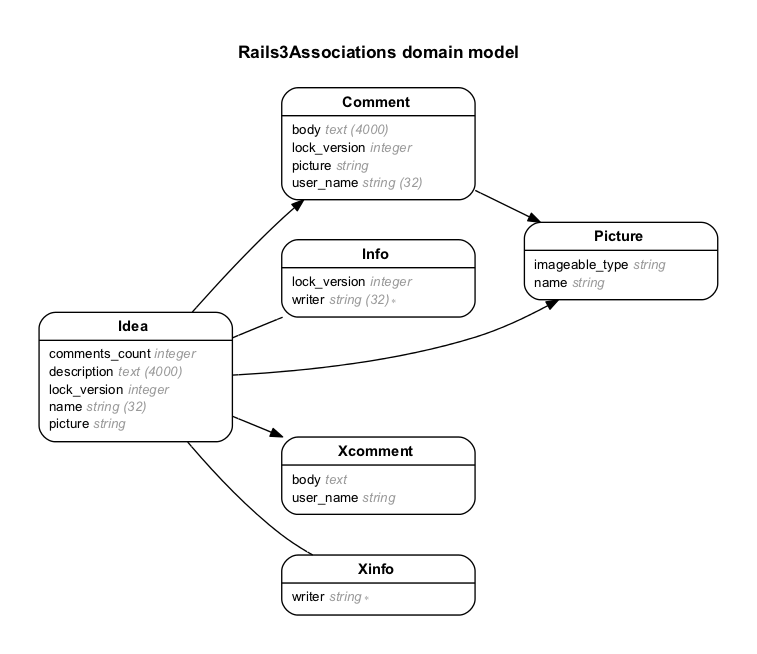
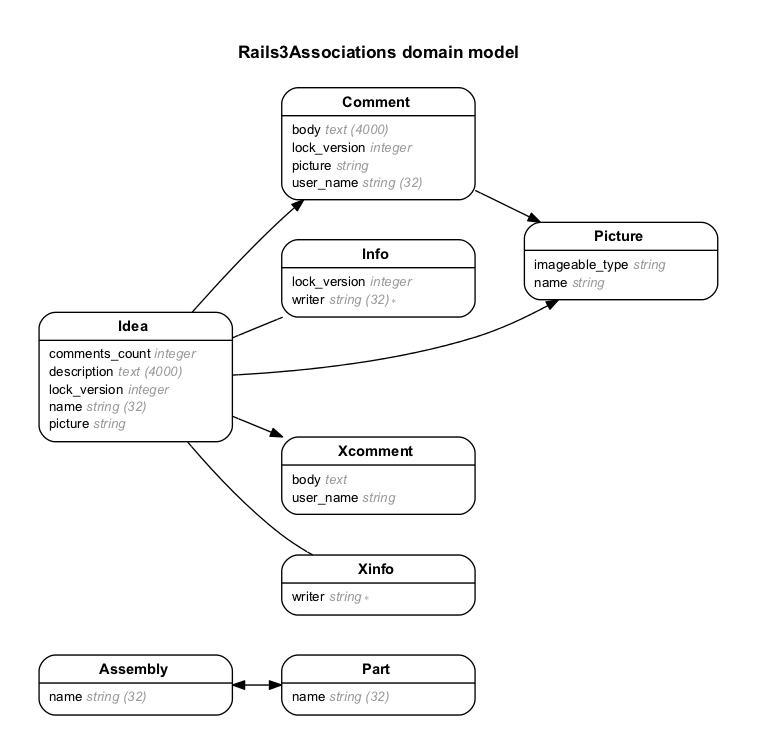
Add relation for m to m.

diff --git a/db/schema.rb b/db/schema.rb
@@ -11,7 +11,18 @@
 #
 # It's strongly recommended to check this file into your version control system.
 
-ActiveRecord::Schema.define(:version => 20130722133736) do
+ActiveRecord::Schema.define(:version => 20131113153736) do
+
+  create_table "assemblies", :force => true do |t|
+    t.string   "name",       :limit => 32
+    t.datetime "created_at",               :null => false
+    t.datetime "updated_at",               :null => false
+  end
+
+  create_table "assemblies_parts", :force => true do |t|
+    t.integer "assembly_id"
+    t.integer "part_id"
+  end
 
   create_table "comments", :force => true do |t|
     t.string   "user_name",    :limit => 32
@@ -43,6 +54,12 @@ ActiveRecord::Schema.define(:version => 20130722133736) do
     t.datetime "created_at",                                :null => false
     t.datetime "updated_at",                                :null => false
     t.integer  "lock_version",               :default => 0
+  end
+
+  create_table "parts", :force => true do |t|
+    t.string   "name",       :limit => 32
+    t.datetime "created_at",               :null => false
+    t.datetime "updated_at",               :null => false
   end
 
   create_table "pictures", :force => true do |t|

diff --git a/db/migrate/20131113153736_create_assemblies_and_parts.rb b/db/migrate/20131113153736_create_assemblies_and_parts.rb
@@ -1,0 +1,9 @@
+class CreateAssembliesAndParts < ActiveRecord::Migration
+  def change
+    create_table :assemblies_parts do |t|
+      t.belongs_to :assembly
+      t.belongs_to :part
+    end
+  end
+
+end

diff --git a/db/migrate/20131113143736_create_assemblies.rb b/db/migrate/20131113143736_create_assemblies.rb
@@ -1,0 +1,9 @@
+class CreateAssemblies < ActiveRecord::Migration
+  def change
+    create_table :assemblies do |t|
+      t.string :name,      :limit => 32
+      t.timestamps
+    end
+  end
+
+end

diff --git a/db/migrate/20131113133736_create_parts.rb b/db/migrate/20131113133736_create_parts.rb
@@ -1,0 +1,8 @@
+class CreateParts < ActiveRecord::Migration
+  def change
+    create_table :parts do |t|
+      t.string :name,      :limit => 32
+      t.timestamps
+    end
+  end
+end

diff --git a/app/models/part.rb b/app/models/part.rb
@@ -1,0 +1,3 @@
+class Part < ActiveRecord::Base
+  has_and_belongs_to_many :assemblies
+end

diff --git a/app/models/assembly.rb b/app/models/assembly.rb
@@ -1,0 +1,3 @@
+class Assembly < ActiveRecord::Base
+  has_and_belongs_to_many :parts
+end

diff --git a/README.md b/README.md
@@ -34,12 +34,25 @@
 　　Idea.first.info  
 　　Info.first.idea  
 
-多対多 (not yet)
+多 対 多
 ------
 
-    idea (m) <--> (m) idea
+    assembly (m) <--> (m) part
 　　
-　　
+　　[assenly]  
+　　   has_and_belongs_to_many :parts  
+　　  
+　　[part]  
+　　   has_and_belongs_to_many :assemblies  
+　　  
+　　[assenblies_parts]  
+　　   t:belongs_to :assenbly  
+　　   t:belongs_to :part  
+　　  
+　　  
+　　Assembly.last.parts  
+　　Part.last.assemblies  
+　　  
 
 ポリモフィック（polymorphic）関連
 ----------
